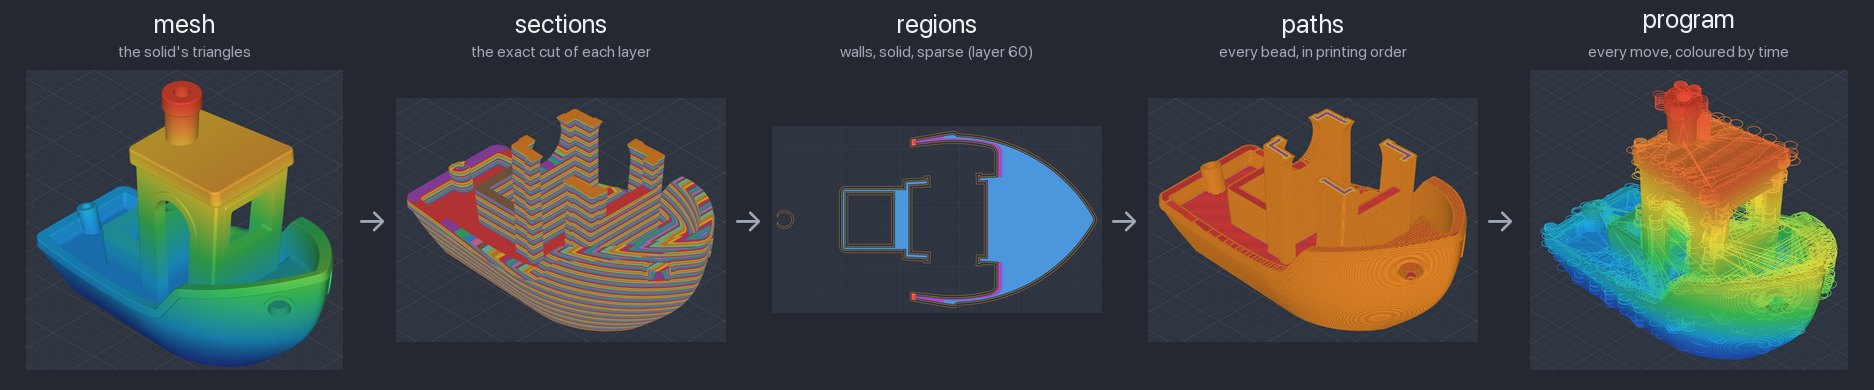
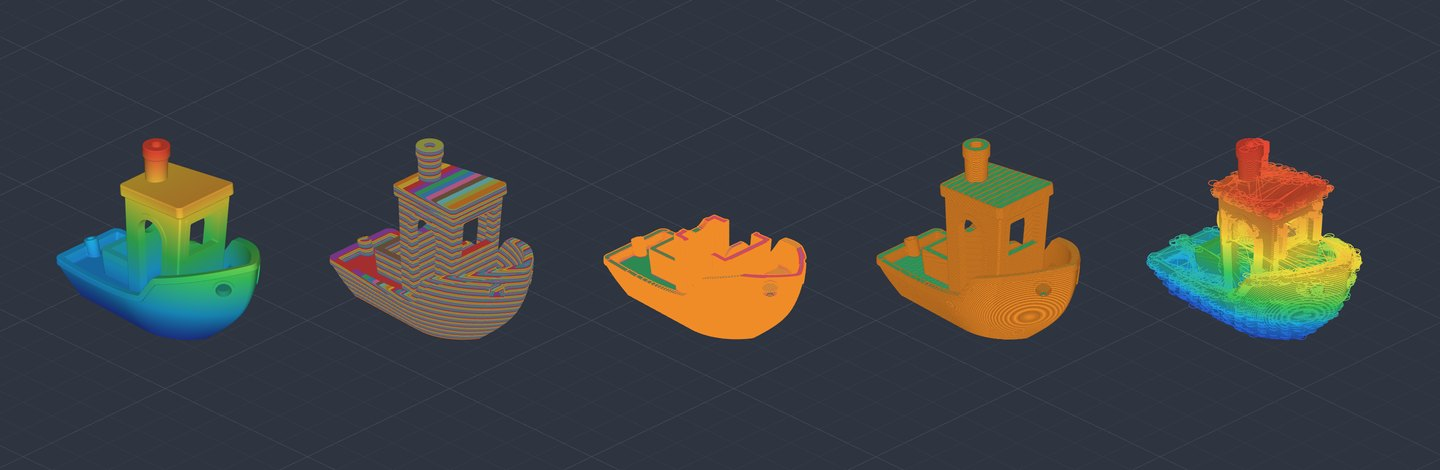
Rewrite the README around a table of what sets layercraft apart; bump to 0.16.2
Each row sets one feature beside a screenshot of SolidCraft's stage-viewer branch showing the
.ply files layercraft wrote: every stage a file, bent layers, no direction on the plate, filament
from the bead's shape, a bead as wide as its strip, convection rolls, bridges and supports, speed
from overhangs, the helix lift, --tune, and the replay card. The new pipeline picture and the
rest replace the old composites. The Benchy's are compiled with --flat, as bent layers stop with
an error on it, which the README says; the other parts are generated solids.

The stale claim of one filament at a time goes: colours print as materials since 0.12.0.

diff --git a/README.md b/README.md
@@ -4,12 +4,193 @@
 all the way down to the file a Bambu Lab X2D prints, through five stages you can each open, read,
 change and compile on from.
 
-![The 3DBenchy at each of layercraft's five stages: mesh, sections, regions, paths, program](docs/images/pipeline.jpg)
+![The 3DBenchy at each of layercraft's five stages, side by side: mesh, sections, regions, paths, program](docs/images/pipeline.jpg)
 
 Slicers are usually closed boxes: a mesh goes in, G-code comes out, and what happens in between
 can only be nudged through settings. layercraft writes every step down. It was built for AI
 agents, who work best when every intermediate result is a file they can inspect, and it turns out
 curious humans like that too.
+
+## What sets it apart
+
+Every picture here is a screenshot of [SolidCraft](#look-at-any-stage) showing the `.ply` files
+layercraft wrote: nothing is drawn for the occasion.
+
+<table>
+<tr>
+<th width="50%">What it does</th>
+<th width="50%">What it looks like</th>
+</tr>
+
+<tr>
+<td>
+
+**Every stage is a file.** Stop at any stage, read it, change it, and compile on from there.
+Nothing reaches around the chain, so what you read is what the next stage gets.
+
+```bash
+layercraft compile part.3mf --out part.gcode.3mf \
+  --emit paths=paths.json          # stop and look
+layercraft compile --from paths=paths.json \
+  --out part.gcode.3mf             # carry on
+```
+
+The stages of one layer sit exactly on top of each other. This one boat is four files, from the
+bottom up: the program coloured by time, then the paths, the regions and the sections.
+
+</td>
+<td><img src="docs/images/stages.jpg" alt="One Benchy drawn from four stage files stacked by layer: program, paths, regions, sections" width="100%"></td>
+</tr>
+
+<tr>
+<td>
+
+**Layers bend to the surface.** Under a top sloped up to 20°, the layers bend to follow it, so
+the top is one continuous skin and not a staircase. They bend only as far as the nozzle's
+measured shape lets them, and each bead pushes only the plastic the nozzle's face leaves it.
+
+The same wave twice, a colour per layer. In front, compiled with `--flat`: the layers end in
+steps across the top. Behind: one layer, whole.
+
+</td>
+<td><img src="docs/images/bent-layers.jpg" alt="A wave-shaped plate twice: flat layers end in coloured steps across its top, bent layers follow it in one colour" width="100%"></td>
+</tr>
+
+<tr>
+<td>
+
+**The plate has no direction.** Every algorithm is equivariant under the plate's isometries,
+E(2): a part turned, moved or mirrored is printed turned, moved or mirrored, and nothing else
+changes. A direction comes from the part's walls, strips and slopes, never from the plate's axes
+or a grid laid on them. Only the machine may break that symmetry, where its hardware does.
+
+Six copies of one shape with `--infill rolls`, each turned or mirrored by its own amount, cut
+through the same layer: each carries the same lines.
+
+</td>
+<td><img src="docs/images/no-direction.jpg" alt="Six copies of one asymmetric shape at different angles, two of them mirrored, each with the same wavy infill turned with it" width="100%"></td>
+</tr>
+
+<tr>
+<td>
+
+**Every millimetre of filament comes from geometry.** Squeezed between the nozzle and the layer
+below, a bead of width *w* and height *h* takes the shape of a stadium, a rectangle with a
+half-disc on each side. Its cross-section, and how far apart beads go so that they tile a surface
+with neither gaps nor overlaps, follow from that shape alone:
+
+`A = (w − h)·h + π·h²/4`<br>
+`s = w − h·(1 − π/4)`
+
+layercraft pushes exactly the filament that fills that volume, bead by bead. SolidCraft draws
+each bead as that very stadium.
+
+</td>
+<td><img src="docs/images/beads.jpg" alt="Close-up of the Benchy's funnel and roof, each bead drawn as a stadium tube" width="100%"></td>
+</tr>
+
+<tr>
+<td>
+
+**A bead as wide as its strip.** What the walls leave, and any strip too thin for two lines,
+takes one bead along its chordal axis, its width following the strip.
+
+A crescent thinning towards its horn, coloured by bead width: two walls of constant width, and
+between them one bead widening and narrowing along its length.
+
+</td>
+<td><img src="docs/images/bead-width.jpg" alt="Part of a thin crescent coloured by bead width: green walls and, between them, a central bead whose colour changes as it widens" width="100%"></td>
+</tr>
+
+<tr>
+<td>
+
+**Infill that grows like convection rolls.** With `--infill rolls`, sparse infill is the zero
+set of a Swift–Hohenberg field relaxed over each layer's sparse area. Its lines run wall to wall,
+one line spacing apart. Each layer's field starts from the one below, so its lines rest on those
+below, and every five layers they lean the other way.
+
+Only the infill of a block is shown here, a colour per layer: the rolls stand in stacked walls.
+
+</td>
+<td><img src="docs/images/rolls.jpg" alt="The sparse infill of a block alone: stacked curving walls, with a colour per layer" width="100%"></td>
+</tr>
+
+<tr>
+<td>
+
+**Bridges cross the short way, supports stand straight.** Strands cross a bridge the short way
+over the air, anchored on both sides. What a strand cannot bridge stands on columns with
+`--supports on`, under a roof of hanging strands, with a gap of air so that they come off.
+
+On the left, an arch at its first layer over the span, strands in brown. On the right, a T whose
+bar stands on columns.
+
+</td>
+<td><img src="docs/images/bridges-supports.jpg" alt="Left, an arch cut at its first bridging layer; right, a T whose bar rests on thin straight columns" width="100%"></td>
+</tr>
+
+<tr>
+<td>
+
+**Speed follows what the bead rests on.** A look-ahead planner gives every move its speed and
+time. A wall slows by the share of its bead that hangs over air, every bead is held to what the
+hot end melts, and a layer that would print faster than it cools slows down, then waits off the
+part.
+
+The Benchy's moves coloured by speed: the hull leaning out over the plate at 50 mm/s, in blue,
+like the edges above its windows; the walls above at 200 mm/s.
+
+</td>
+<td><img src="docs/images/overhangs.jpg" alt="The Benchy coloured by speed: the lower hull and the overhanging edges in blue, the rest in yellow" width="100%"></td>
+</tr>
+
+<tr>
+<td>
+
+**The nozzle leaves on a helix.** A straight lift pulls a string up with it; a helix breaks it.
+Its 1.2 mm radius is the smallest that broke the string on the printer. Each layer's beads are
+ordered by the tour that retracts least, then travels least, and a travel that would cross a bead
+at its own height lifts over it.
+
+The Benchy, in grey, cut at the cabin's windows, with only the moves that lay nothing: travels in
+yellow, lifts in purple.
+
+</td>
+<td><img src="docs/images/travel.jpg" alt="A grey Benchy surrounded by purple helices and crossed by yellow travel moves" width="100%"></td>
+</tr>
+
+<tr>
+<td>
+
+**Any setting can vary by place.** `--tune` takes boxes of the build volume, each with the
+settings it changes, for any stage, so several variants of a test share one plate. The plates
+in [`calibration/`](calibration/) are made this way.
+
+```json
+[{"within": {"z": [6, 12]},
+  "set": {"motion": {"outer_wall": {"speed": 60}}}}]
+```
+
+A cylinder printing faster every 6 mm, coloured by speed.
+
+</td>
+<td><img src="docs/images/tune.jpg" alt="A cylinder in bands of colour from blue at the bottom to yellow at the top, one band per speed" width="100%"></td>
+</tr>
+
+<tr>
+<td>
+
+**Every number is there to look at.** Each element of a `.ply` file carries its numbers: colour
+by any of them, filter by ranges of them. `layer ≤ k` peels the print, `t ≤ t₀` replays it.
+
+The card lists the roles by name, since the file's header names them, and draws how the print's
+beads spread over time. This is the Benchy, 1400 s into its 2021 s.
+
+</td>
+<td><img src="docs/images/replay.jpg" alt="SolidCraft's window: the Edit Point Cloud card with a legend of roles and a timeline, beside a part-printed Benchy" width="100%"></td>
+</tr>
+</table>
 
 ## How a solid becomes a print
 
@@ -21,31 +202,10 @@ curious humans like that too.
 | **paths** | every bead, in printing order | wall loops with their seams lined up, dense insets and lines along the part's own directions, strands across bridges |
 | **program** | every move of the nozzle, layer by layer, each with all it does: where it goes (a line, or an arc climbing about a vertical axis), the filament, speed, acceleration and fan, and the bead it lays | filament from the volume each bead fills, speeds from the machine, time from a look-ahead planner |
 
-Then each layer is slowed if it would print faster than it cools, and waits off the part when even
-its slowest is too fast, each bead held to what the hot end melts, the machine's own G-code is put around the layers, `verify` checks every move against
-the machine, and the program is written as G-code and packed into the `.gcode.3mf` the printer
-reads from its storage. A program can also be read back from any slicer's G-code, and several
-programs merged onto one plate.
-
-Any stage can be written out and read back in:
-
-```bash
-layercraft compile part.3mf --out part.gcode.3mf --emit paths=paths.json   # stop and look
-layercraft compile --from paths=paths.json --out part.gcode.3mf            # carry on from there
-```
-
-## Every millimetre of filament, from geometry
-
-Squeezed between the nozzle and the layer below, a bead takes the shape of a *stadium*: a
-rectangle with a half-disc on each side. Its cross-section, and how far apart beads go so that
-they tile a surface with neither gaps nor overlaps, follow from that shape alone:
-
-![A bead's cross-section: width w, height h, beads s apart, with the formulas for its area, the spacing and the filament it takes](docs/images/bead.png)
-
-layercraft pushes exactly the filament that fills that volume, bead by bead: a layer's plastic
-is the sum, over its beads, of cross-section times length. Each bead's centre sits half its
-height under the nozzle, at the layer's mid-height where the section is cut, which is why the
-stages of one layer sit exactly on top of each other when you look at them together.
+Then the machine's own G-code is put around the layers, `verify` checks every move against the
+machine, and the program is written as G-code and packed into the `.gcode.3mf` the printer reads
+from its storage. A program can also be read back from any slicer's G-code, and several programs
+merged onto one plate.
 
 ## Look at any stage
 
@@ -66,16 +226,13 @@ layercraft compile part.3mf --out part.gcode.3mf \
 | program | moves | per point: `t` (seconds); per move: `layer`, `move`, `role`, `width`, `height`, `speed`, `e`, `fan` |
 
 A segment with a `width` and a `height` is a bead of that cross-section. A role has the same
-number in every stage, and the file's header names them (`role: 0 outer wall, 1 inner wall, …`),
-so a viewer can show a legend. Colour by any number, filter by ranges of them: `layer ≤ k`
-peels the print layer by layer, `t ≤ t₀` replays it.
+number in every stage, and the file's header names them (`role: 0 outer wall, 1 overhang wall, …`),
+so a viewer can show a legend.
 
 [SolidCraft](https://github.com/tangency-labs/solidcraft) draws all of this, live, with the
-colour and the filters on the GPU, so a slider follows the mouse even on the 840 000 segments of a
-Benchy's program. This is still a proposal upstream; until it lands, it lives on the
+colour and the filters on the GPU, so a slider follows the mouse even on the 1.3 million moves of
+a Benchy's program. This is still a proposal upstream; until it lands, it lives on the
 [`stage-viewer` branch of a fork](https://github.com/mariogeiger/solidcraft/tree/stage-viewer).
-
-![SolidCraft showing the Benchy's stages: the edit card with a legend and filters, the program coloured by time, the paths by role, a replay and a close-up of the beads](docs/images/solidcraft.jpg)
 
 ## Never harm the machine
 
@@ -103,17 +260,17 @@ layercraft compare part.gcode.3mf other.gcode   # side by side with another slic
 `~/.config/layercraft/`; nothing from them enters this repository. `compare` lines up two
 G-code files layer by layer and feature by feature: another slicer is a reference to compare
 against, not an oracle. `merge` prints programs together, layer by layer: program stages and
-G-code from any slicer, each already placed, so two slicers' parts can share one plate.
-`--tune` varies any setting by height or by object: a JSON list of
-boxes, each with the settings it changes, such as `{"within": {"z": [0, 5]}, "set": {"motion":
-{"lift_radius": 0.6}}}`; so several variants of a test can share one plate.
+G-code from any slicer, each already placed, so two slicers' parts can share one plate. Each
+colour a 3MF gives its objects is a material, printed in its own pass per layer with the X2D's
+filament change between.
 
 ## What it does not do yet
 
-One printer (the Bambu Lab X2D), one filament at a time; supports are straight columns of
-lines, with no tree supports and no interface under a column standing on the part. layercraft
-is young: it prints walls, skins, infill, bridges and supports, and every change is checked
-against solids whose volumes and sections are known exactly.
+One printer, the Bambu Lab X2D. Supports are straight columns of lines, with no tree supports and
+no interface under a column standing on the part. Bent layers stop with an error on some meshes,
+the Benchy among them, whose pictures here are compiled with `--flat`; and a `.ply` of the
+sections, regions or paths draws a bent layer flat, where the program's is true. layercraft is
+young: every change is checked against solids whose volumes and sections are known exactly.
 
 ## The rest
 
@@ -122,4 +279,5 @@ against solids whose volumes and sections are known exactly.
 - [CHANGELOG.md](CHANGELOG.md): what changed.
 
 MIT OR Apache-2.0, written from public specifications and mathematics. The boat is the
-[3DBenchy](https://en.wikipedia.org/wiki/3DBenchy) by Creative Tools, in the public domain.
+[3DBenchy](https://en.wikipedia.org/wiki/3DBenchy) by Creative Tools, in the public domain; the
+other parts are generated in code.

diff --git a/CHANGELOG.md b/CHANGELOG.md
@@ -2,6 +2,13 @@
 
 All notable user-visible changes to this project are documented here.
 
+## 0.16.2
+
+### Documentation
+
+- The README is rewritten around a table: each thing that sets layercraft apart, beside a
+  screenshot of SolidCraft showing the `.ply` files layercraft wrote.
+
 ## 0.16.1
 
 ### Changed
